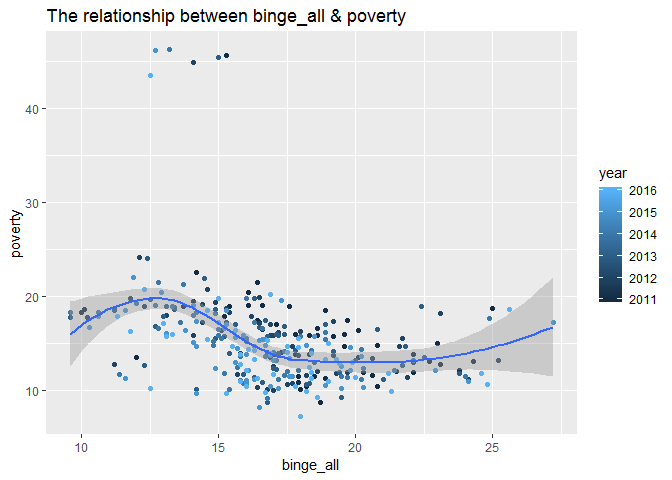
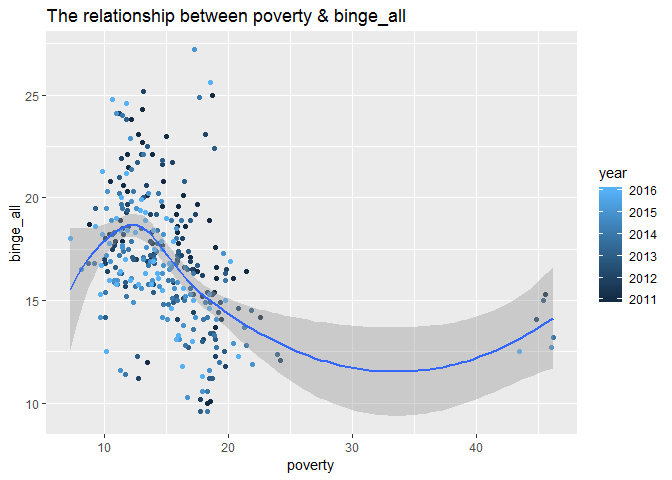
Final Homework 2

diff --git a/hw02/hw02.html b/hw02/hw02.html
@@ -154,10 +154,35 @@ $(document).ready(function () {
 </div>
 <div id="question-6-make-a-simple-scatter-plot-showing-the-correlation-between-the-overall-poverty-prevalence-in-a-state-and-the-prevalence-of-binge-drinking-in-the-overall-population.-add-a-loess-smoothed-fit-curve-to-indicate-the-pattern.-comment-briefly." class="section level5">
 <h5>Question 6: Make a simple scatter plot showing the correlation between the overall poverty prevalence in a state and the prevalence of binge drinking in the overall population. Add a loess smoothed fit curve to indicate the pattern. Comment briefly.</h5>
[1 lines of base64/hex data omitted]
+</div>
+<div id="for-the-plot-1-there-is-a-peak-between-10-and-15-and-i-suppose-that-the-peak-value-corresponding-to-the-value-of-x-axis-is-12.5." class="section level5">
+<h5>For the Plot 1, there is a peak between 10 and 15, and I suppose that the peak value corresponding to the value of x-axis is 12.5.</h5>
+</div>
+<div id="when-poverty-is-less-than-12.5-poverty-is-proportional-to-binge_all-which-means-that-the-increase-in-the-percentage-of-poverty-of-a-state-the-increase-in-percentage-of-drinking-prevalence-among-all-adults" class="section level5">
+<h5>1. When poverty is less than 12.5, poverty is <strong>proportional</strong> to binge_all, which means that the increase in the percentage of poverty of a state, the increase in percentage of drinking prevalence among all adults;</h5>
+</div>
+<div id="when-poverty-is-between-12.5-and-35-poverty-is-inversely-proportional-to-binge_all-which-means-that-the-increase-in-the-percentage-of-poverty-of-a-state-the-decrease-in-the-percentage-of-drinking-prevalence-among-all-adults" class="section level5">
+<h5>2. When poverty is between 12.5 and 35, poverty is <strong>inversely proportional</strong> to binge_all, which means that the increase in the percentage of poverty of a state, the decrease in the percentage of drinking prevalence among all adults;</h5>
+</div>
+<div id="when-binge_all-is-larger-than-35-the-curve-is-gradually-increasing-the-two-variables-are-proportional-again." class="section level5">
+<h5>3. When binge_all is larger than 35, the curve is gradually increasing, the two variables are <strong>proportional</strong> again.</h5>
[1 lines of base64/hex data omitted]
 </div>
-<div id="comment-briefly-according-to-the-scatter-plot-it-can-be-seen-that-there-is-a-non-linear-relationship-between-binge_all-and-povertyas-the-blue-curve-shows.-also-there-is-a-peak-between-10-and-15-and-i-suppose-that-the-peak-value-corresponding-to-the-value-of-x-axis-is-12.5approximate.-when-binge_all-is-less-than-12.5-binge_all-is-proportional-to-poverty-which-means-that-the-increase-in-the-percentage-of-drinking-prevalence-among-all-adults-the-increase-in-the-percentage-of-poverty-of-the-state.-when-binge_all-is-between-12.5-and-17.5-binge_all-is-inversely-proportional-to-poverty-which-means-that-the-increase-in-the-percentage-of-drinking-prevalence-among-all-adults-the-decrease-in-the-percentage-of-poverty-of-the-state.-later-the-curve-starts-to-become-flat-between-17.5-and-22.5-almost-parallel-to-the-x-axis-which-means-that-there-is-no-correlation-between-binge_all-and-poverty.-and-then-when-binge_all-is-larger-than-22.5-the-curve-is-gradually-increasing-the-two-variables-are-proportional-again." class="section level5">
-<h5>Comment Briefly: According to the scatter plot, it can be seen that there is a non-linear relationship between binge_all and poverty(as the blue curve shows). Also, there is a peak between 10 and 15, and I suppose that the peak value corresponding to the value of x-axis is 12.5(approximate). When binge_all is less than 12.5, binge_all is <strong>proportional</strong> to poverty, which means that the increase in the percentage of drinking prevalence among all adults, the increase in the percentage of poverty of the state. When binge_all is between 12.5 and 17.5, binge_all is <strong>inversely proportional</strong> to poverty, which means that the increase in the percentage of drinking prevalence among all adults, the decrease in the percentage of poverty of the state. Later, the curve starts to become flat between 17.5 and 22.5, almost parallel to the x-axis, which means that there is no correlation between binge_all and poverty. And then, when binge_all is larger than 22.5, the curve is gradually increasing, the two variables are <strong>proportional</strong> again.</h5>
+<div id="for-the-plot-2-there-is-a-peak-between-10-and-15-and-i-suppose-that-the-peak-value-corresponding-to-the-value-of-x-axis-is-13." class="section level5">
+<h5>For the Plot 2, there is a peak between 10 and 15, and I suppose that the peak value corresponding to the value of x-axis is 13.</h5>
+</div>
+<div id="when-binge_all-is-less-than-13-binge_all-is-proportional-to-poverty" class="section level5">
+<h5>1. When binge_all is less than 13, binge_all is <strong>proportional</strong> to poverty;</h5>
+</div>
+<div id="when-binge_all-is-between-13-and-20-binge_all-is-inversely-proportional-to-poverty" class="section level5">
+<h5>2. When binge_all is between 13 and 20, binge_all is <strong>inversely proportional</strong> to poverty;</h5>
+</div>
+<div id="when-binge_all-is-larger-than-20-the-curve-is-gradually-increasing-the-two-variables-are-proportional-again." class="section level5">
+<h5>3. When binge_all is larger than 20, the curve is gradually increasing, the two variables are <strong>proportional</strong> again.</h5>
+</div>
+<div id="summary-according-to-these-two-scatter-plots-it-can-be-seen-that-there-is-non-linear-relationship-between-poverty-and-binge_all.-besides-the-shape-and-movement-of-these-two-plots-are-roughly-the-same-but-the-curve-in-plot-1-is-steeper.-therefore-there-may-exist-two-way-causality-relationship-between-the-two-variables." class="section level5">
+<h5><strong>Summary: According to these two scatter plots, it can be seen that there is non-linear relationship between poverty and binge_all. Besides, the shape and movement of these two plots are roughly the same, but the curve in Plot 1 is steeper. Therefore, there may exist two-way causality relationship between the two variables.</strong></h5>
 </div>
 <div id="question-7-calculate-the-average-annual-growth-rates-of-overall-binge-drinking-across-states-for-the-years-the-data-is-available.-provide-a-table-of-the-5-states-with-the-largest-increases-and-the-5-states-with-the-largest-decreases-in-binge-drinking-prevalence-over-the-time-period." class="section level5">
 <h5>Question 7: Calculate the average annual growth rates of overall binge drinking across states for the years the data is available. Provide a table of the 5 states with the largest increases and the 5 states with the largest decreases in binge drinking prevalence over the time period.</h5>

diff --git a/hw02/hw02.md b/hw02/hw02.md
@@ -48,9 +48,21 @@ My idea to solve this question: There are 34 columns in the original excel, but 
 
 
 ##### Question 6: Make a simple scatter plot showing the correlation between the overall poverty prevalence in a state and the prevalence of binge drinking in the overall population. Add a loess smoothed fit curve to indicate the pattern. Comment briefly.
+My idea to solve this question: Since I cannot accurately say which variable affects another variable or which variable must be the independent variable, therefore I draw two scatter plots respectively with poverty as the independent variable and binge_all as the independent variable.
 ![](images/unnamed-chunk-7-1.png)<!-- -->
 
-##### Comment Briefly: According to the scatter plot, it can be seen that there is a non-linear relationship between binge_all and poverty(as the blue curve shows). Also, there is a peak between 10 and 15, and I suppose that the peak value corresponding to the value of x-axis is 12.5(approximate). When binge_all is less than 12.5, binge_all is **proportional** to poverty, which means that the increase in the percentage of drinking prevalence among all adults, the increase in the percentage of poverty of the state. When binge_all is between 12.5 and 17.5, binge_all is **inversely proportional** to poverty, which means that the increase in the percentage of drinking prevalence among all adults, the decrease in the percentage of poverty of the state. Later, the curve starts to become flat between 17.5 and 22.5, almost parallel to the x-axis, which means that there is no correlation between binge_all and poverty. And then, when binge_all is larger than 22.5, the curve is gradually increasing, the two variables are **proportional** again.
+##### For the Plot 1, there is a peak between 10 and 15, and I suppose that the peak value corresponding to the value of x-axis is 12.5.
+##### 1. When poverty is less than 12.5, poverty is **proportional** to binge_all, which means that the increase in the percentage of poverty of a state, the increase in percentage of drinking prevalence among all adults;
+##### 2. When poverty is between 12.5 and 35, poverty is **inversely proportional** to binge_all, which means that the increase in the percentage of poverty of a state, the decrease in the percentage of drinking prevalence among all adults;
+##### 3. When binge_all is larger than 35, the curve is gradually increasing, the two variables are **proportional** again.
+
+![](images/unnamed-chunk-8-1.png)<!-- -->
+
+##### For the Plot 2, there is a peak between 10 and 15, and I suppose that the peak value corresponding to the value of x-axis is 13.
+##### 1. When binge_all is less than 13, binge_all is **proportional** to poverty;
+##### 2. When binge_all is between 13 and 20, binge_all is **inversely proportional** to poverty;
+##### 3. When binge_all is larger than 20, the curve is gradually increasing, the two variables are **proportional** again.
+##### **Summary: According to these two scatter plots, it can be seen that there is non-linear relationship between poverty and binge_all. Besides, the shape and movement of these two plots are roughly the same, but the curve in Plot 1 is steeper. Therefore, there may exist two-way causality relationship between the two variables.** 
 
 
 
